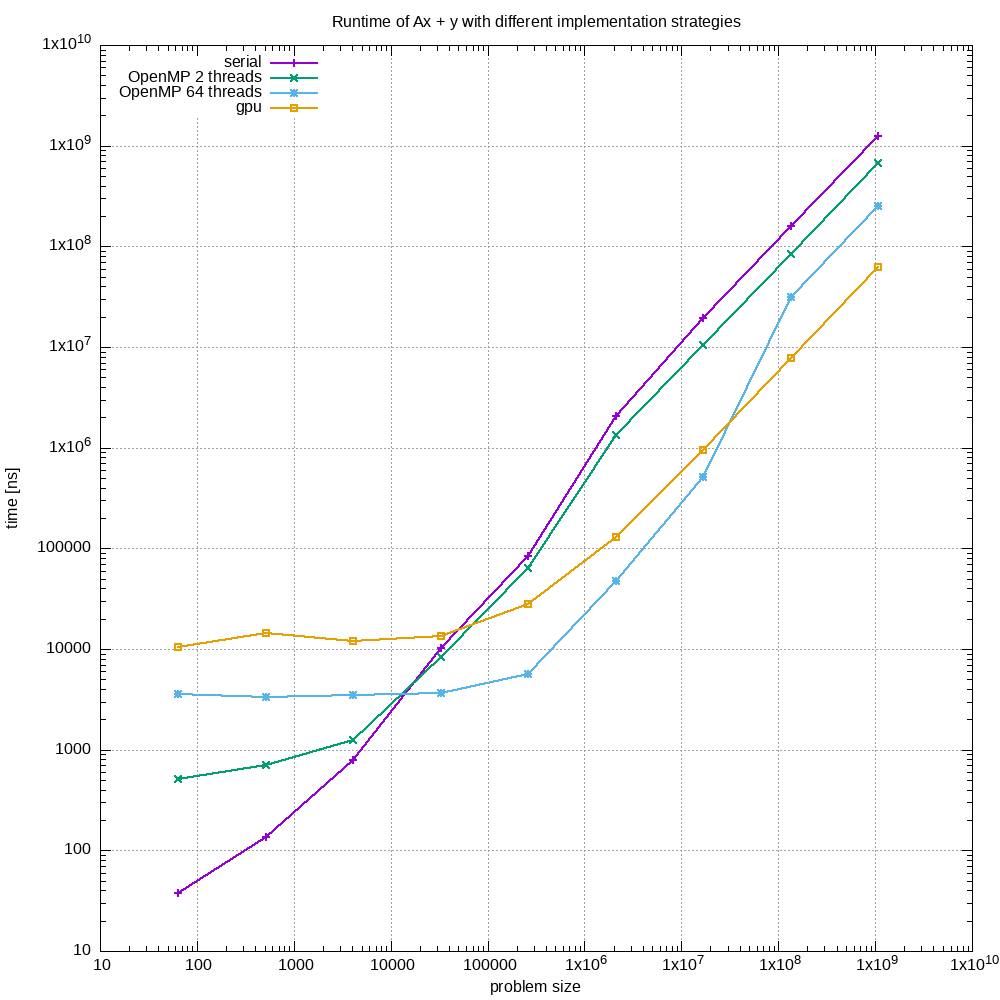
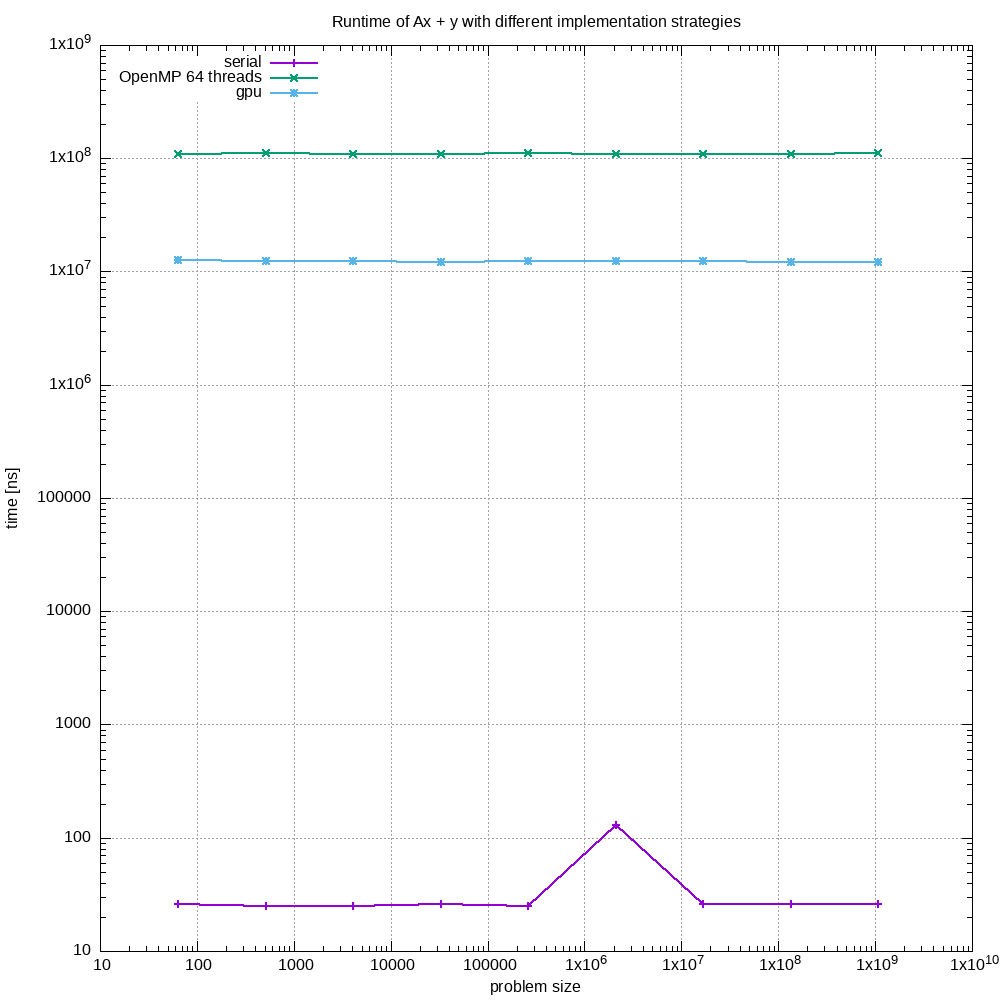
Fix n; Remove non-static

diff --git a/application-performance/demos/idle_resources/common.h b/application-performance/demos/idle_resources/common.h
@@ -80,14 +80,14 @@ template <typename T, typename... Args> void run_and_measure(Args... args) {
     constexpr size_t max_n = *std::max_element(ns.begin(), ns.end());
 
     T t(max_n, allocate, deallocate, args...);
-    loop(max_n, t, [](T &t, size_t i) { T::init(t, i); });
+    loop(max_n, t, [](T &t, size_t i) { t.init(i); });
 
     for (size_t n : ns) {
         constexpr auto n_iter = 20;
         size_t avg = 0;
         for (auto iteration = 0; iteration < n_iter; iteration++) {
             const auto start = std::chrono::high_resolution_clock::now();
-            loop(max_n, t, [](T &t, size_t i) { T::compute(t, i); });
+            loop(n, t, [](T &t, size_t i) { t.compute(i); });
             const auto end = std::chrono::high_resolution_clock::now();
             const std::chrono::duration<double, std::nano> dur = end - start;
             avg += iteration == 0 ? 0 : dur.count();

diff --git a/application-performance/demos/idle_resources/axpy.h b/application-performance/demos/idle_resources/axpy.h
@@ -23,13 +23,11 @@ template <typename T> struct Axpy {
         deallocate(static_cast<void *>(r));
     }
 
-    DEVICE static void init(Axpy<T> &axpy, size_t i) {
-        axpy.x[i] = sin(static_cast<T>(i));
-        axpy.y[i] = cos(static_cast<T>(i));
-        axpy.r[i] = 0.0;
+    DEVICE void init(size_t i) {
+        x[i] = sin(static_cast<T>(i));
+        y[i] = cos(static_cast<T>(i));
+        r[i] = 0.0;
     }
 
-    DEVICE static void compute(Axpy<T> &axpy, size_t i) {
-        axpy.r[i] = axpy.a * axpy.x[i] + axpy.y[i];
-    }
+    DEVICE void compute(size_t i) { r[i] = a * x[i] + y[i]; }
 };
